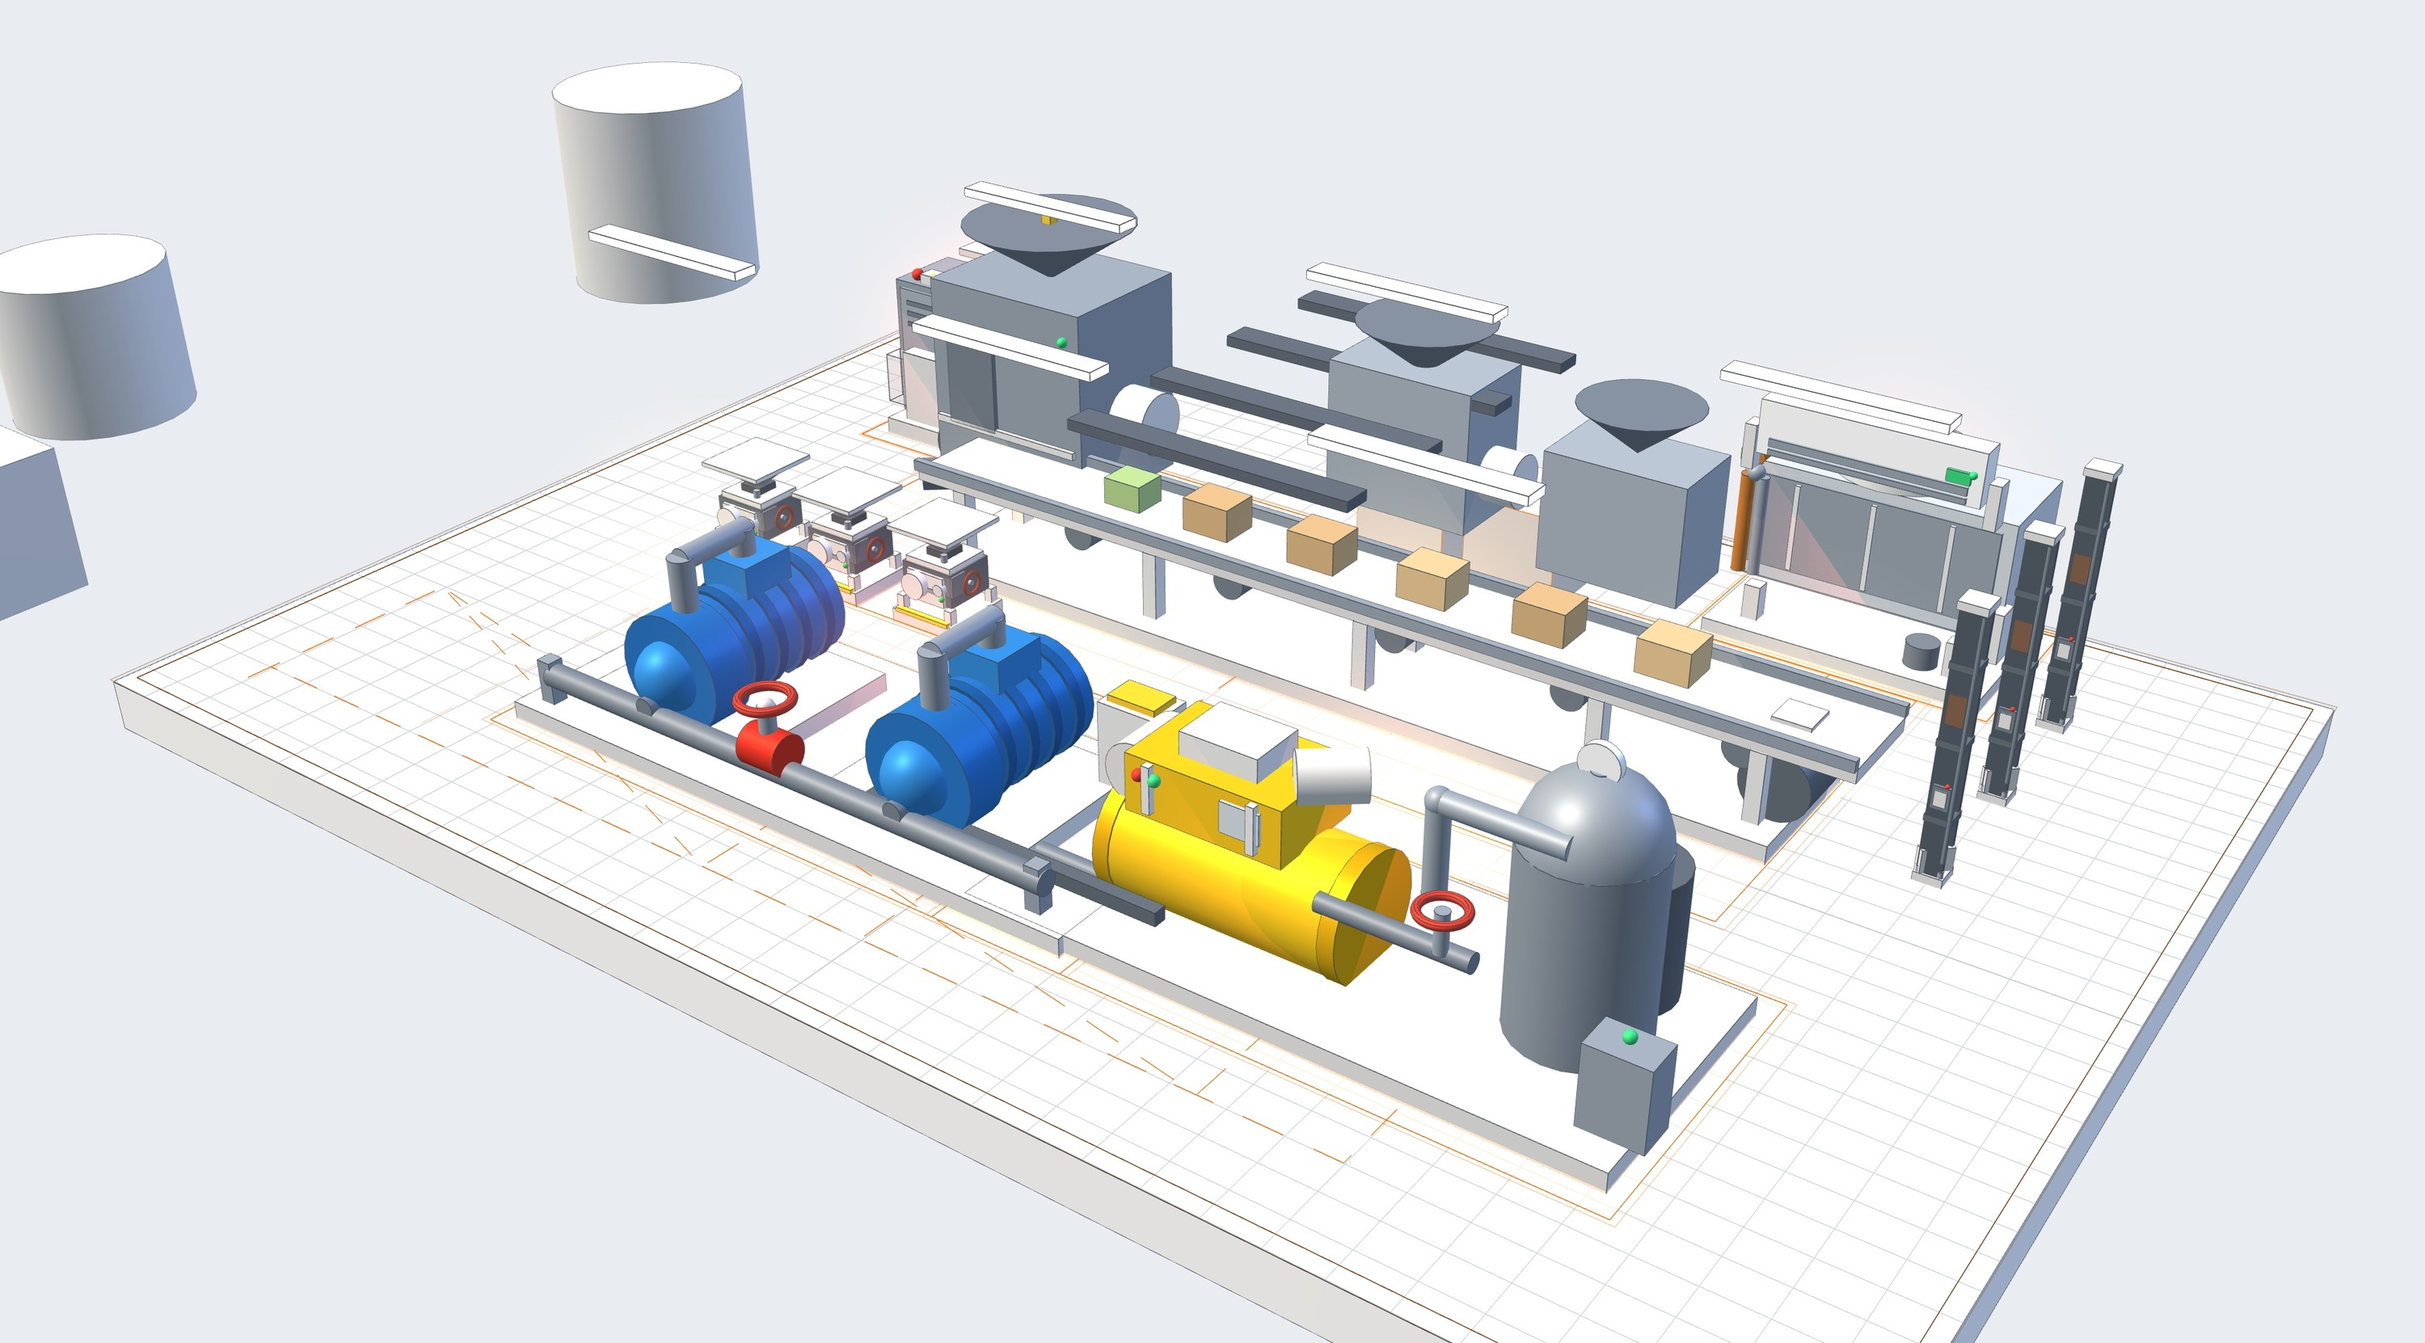
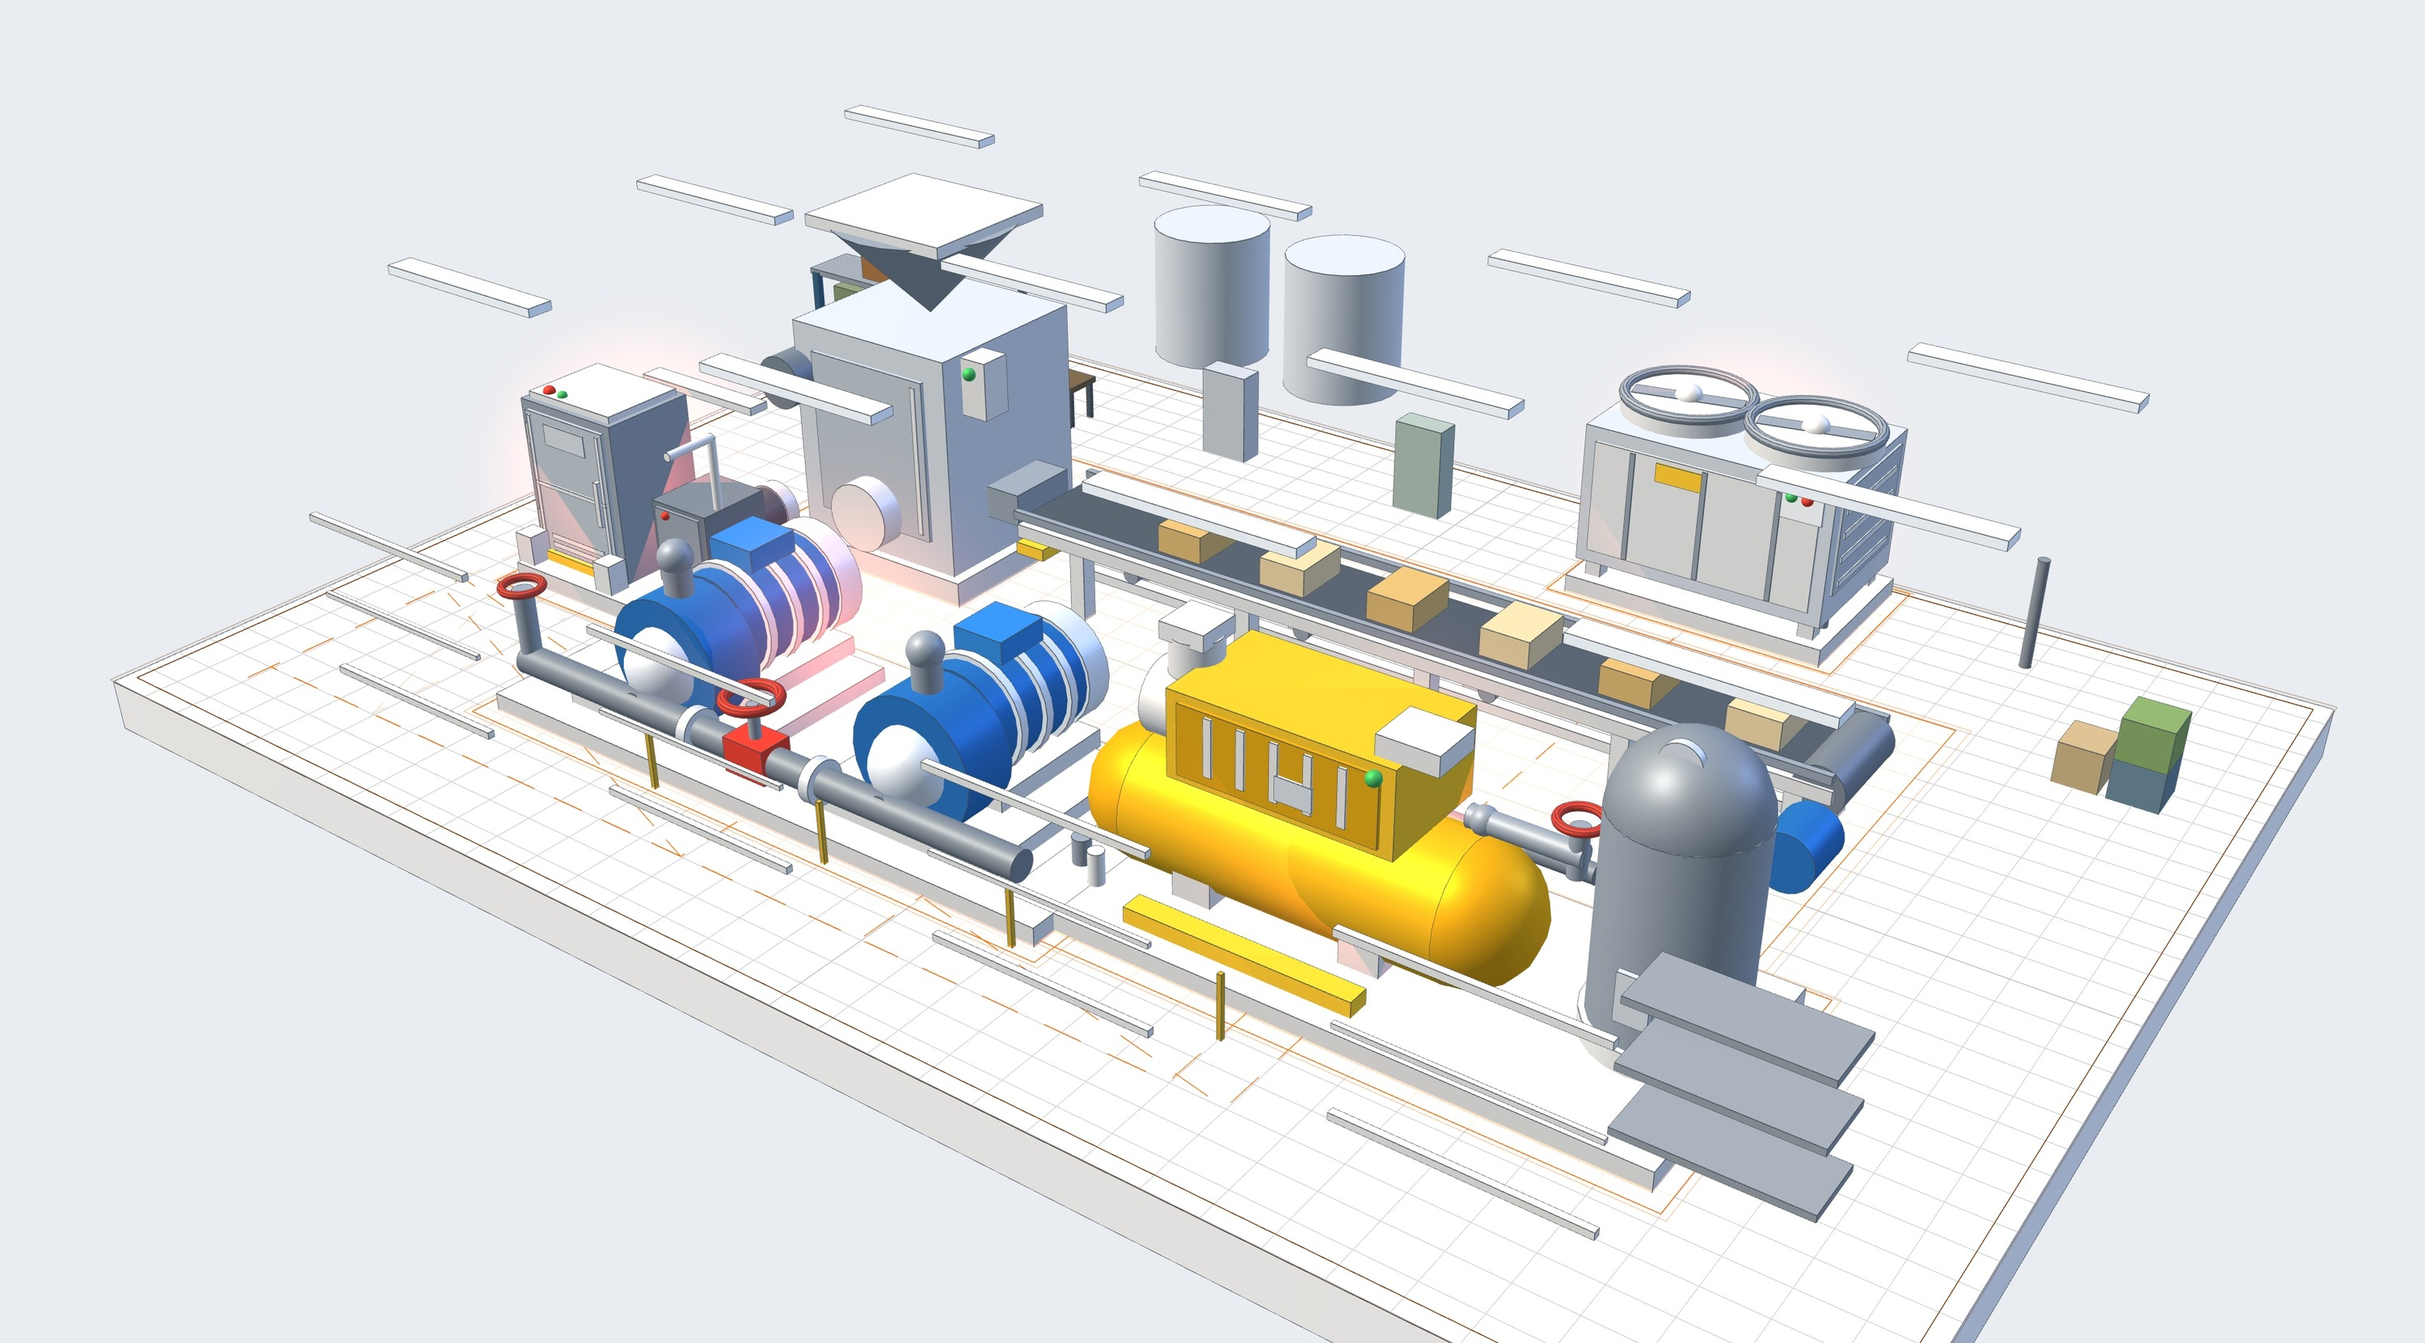
Full-AI hall live in the pipeline (Muse Wonder designs the whole 3D scene, open frame, no roof/walls/columns/trees, decluttered in code); new hero demo and README 3D images; README states everything is designed by Muse models

diff --git a/wattloop/parts.py b/wattloop/parts.py
@@ -187,11 +187,11 @@ def generate_props(budget: meta.Budget, spec: dict, image: bytes | None, descrip
 
 HALL_SYSTEM = ("You are the 3D Modeller agent of an industrial energy-audit pipeline. The machines of ONE facility are modelled elsewhere. You model EVERYTHING ELSE in the hall so that the scene looks like the photo: "
                "ceiling light fixtures (each one a thin bright box), steel columns and beams, open roof trusses (bars only), window frames (thin bars only), ducts and pipe runs, cable trays, racks and shelving with pallets, tanks and silos, furnaces and ovens, "
-               "workbenches, stacked products, guard rails, walkways, control cabinets, and a few background buildings or tanks outside the hall. Return ONE JSON object and nothing else: "
+               "workbenches, stacked products, guard rails, walkways, control cabinets, and nothing else outside the hall. Return ONE JSON object and nothing else: "
                '{"hall":[{"shape":"box|cylinder|cone|sphere|torus","pos":[x,y,z],"size":[...],"rot":[rx,ry,rz],"color":"#rrggbb","opacity":0.3-1}]}\n'
-               "FRAME (metres): the hall floor is x from -16 to 16 and z from -10 to 10 (z positive toward the viewer, y up, 0 = floor); pos is the CENTRE of each part; you may also place things outside the floor up to x +-32 and z +-18 for the background. "
+               "FRAME (metres): the hall floor is x from -16 to 16 and z from -10 to 10 (z positive toward the viewer, y up, 0 = floor); pos is the CENTRE of each part; everything must stay inside the floor. "
                "The machines stand in these slots, so keep them free: pumps near x -8 z 6; compressor near x 7 z 5.4; production line along x -9 to 9 at z -3.6; AC unit near x 10 z -9.3; standby cabinet near x -13.5 z -3.6 (the layout may move them; stay clear of the middle band). "
-               "NO OVERHEAD STRUCTURE (very important): do not model anything above height 6 except ceiling light fixtures (thin bright boxes hanging at y 6.5 to 7.5). No roof, no roof beams, no trusses, no overhead bars, no ceiling grid. Columns stop at height 6. The hall is OPEN to the sky. "
+               "NOTHING OUTSIDE THE FACTORY: no trees, plants, bushes, cars, people, roads, fences, background buildings or tanks outside the floor area; everything you model stands INSIDE the floor (x -16 to 16, z -10 to 10). Do not model windows or window frames either.  do not model anything above height 6 except ceiling light fixtures (thin bright boxes hanging at y 6.5 to 7.5). No roof, no roof beams, no trusses, no overhead bars, no ceiling grid. Columns stop at height 6. The hall is OPEN to the sky. "
                "OPEN FRAME RULE: the hall floor area is an open space with standing structure only. NEVER model a roof, a ceiling, a floor slab or any wall or solid panel: no box wider than 6 and deeper than 6 that is thin, no big flat sheet of any kind. Build structure only from thin bars (columns up to height 6, rails, braces, low ducts and pipes, each under 0.6 thick) so that the machines are always fully visible from above and from the side. Windows are drawn as thin frames, never as panes. "
                "Use 70 to 130 parts, biggest and most visible structures first. SIZES: box [width,height,depth]; cylinder [radius,height]; cone [radius,height]; sphere [radius]; torus [ring radius, tube radius]. rot in degrees (a cylinder stands upright; rot [0,0,90] lays it along x; rot [90,0,0] along z). "
                "Nothing floats: every part touches the floor or another part (columns stop at height 6, lights hang on thin rods at 6.5 to 7.5). Match the photo: the number and spacing of columns and lights, the colours, the materials (stainless light grey #c3cbd4, painted steel as seen, brick red #8a3b2a), glass with opacity 0.35 to 0.6. "
@@ -246,6 +246,37 @@ def _open_top(p: dict) -> dict | None:
     return p
 
 
+def _extent(p: dict) -> tuple[float, float]:
+    """(height, longest horizontal size) of a part."""
+    if p["shape"] == "box":
+        return p["size"][1], max(p["size"][0], p["size"][2])
+    if p["shape"] in ("cylinder", "cone"):
+        return (p["size"][1], 2 * p["size"][0]) if not p.get("rot") else (2 * p["size"][0], p["size"][1])
+    return 2 * p["size"][0], 2 * p["size"][0]
+
+
+def _declutter(p: dict) -> dict | None:
+    """Keep the view clear: nothing tall stands between the viewer and the machines (front band z > 3.5), no long overhead rails,
+    nothing outside the floor except low-profile background behind the hall (z < -11), no big blocks or trees at the edges."""
+    x, y, z = p["pos"]
+    h, length = _extent(p)
+    if _is_light(p):
+        return p
+    if abs(x) > 17.5 or z > 11.0:
+        return None
+    if z < -11.0 and h > 8:
+        return None
+    if z > 3.5 and y + h / 2 > 1.4:
+        return None
+    if p["shape"] == "box" and length > 8 and y > 1.5:
+        return None
+    if p["shape"] == "box" and length > 3.5 and h < 0.3 and y < 0.6:
+        return None   # flat strips lying on the floor (leftover window sills and rails) only clutter the view
+    if p["shape"] == "sphere" and p["size"][0] > 0.8:
+        return None
+    return p
+
+
 def generate_hall(budget: meta.Budget, spec: dict, image: bytes | None, description: str, obs: dict | None, boxes: list[dict]) -> tuple[list[dict], dict]:
     """Full-AI scene: Muse Wonder designs lights, columns, ducts, racks, tanks, furnaces and the background too (validated parts, no templates)."""
     usd = 0.0
@@ -258,7 +289,7 @@ def generate_hall(budget: meta.Budget, spec: dict, image: bytes | None, descript
             continue
         usd += r["usd"]
         plist = (r["json"] or {}).get("hall")
-        got = [q for q in (_open_top(p) for p in _clean(plist, 32.0, 18.0, 10.0, 150, allow_anim=False, limit=150) if not _is_panel(p)) if q]
+        got = [r for r in (_declutter(q) for q in (_open_top(p) for p in _clean(plist, 32.0, 18.0, 10.0, 150, allow_anim=False, limit=150) if not _is_panel(p)) if q) if r]
         if len(got) >= 20:
             return got, {"usd": usd, "model": r["model"]}
     return [], {"usd": usd, "model": None}

diff --git a/wattloop/pipeline.py b/wattloop/pipeline.py
@@ -461,27 +461,42 @@ def scene_designer(run: Run, spec: dict, obs: dict, boxes: list[dict]):
             raise
         except Exception:  # noqa: BLE001  (the template shapes stay)
             return {}, {"usd": 0.0}
-    with ThreadPoolExecutor(1) as ex:
-        fut = ex.submit(shapes)
+    def hall():
+        """The rest of the scene (lights, racks, tanks, furnaces, background): designed by the model too, open frame only (no roof, walls or columns)."""
+        if not meta.available() or meta.env("PARTS_3D", "1") != "1":
+            return [], {"usd": 0.0}
+        try:
+            res = parts.generate_hall(run.budget, spec, run.image, run.case["description"], obs, boxes)
+            run.calls += 1 if res[1].get("usd") else 0
+            return res
+        except meta.BudgetExceeded:
+            raise
+        except Exception:  # noqa: BLE001
+            return [], {"usd": 0.0}
+    with ThreadPoolExecutor(2) as ex:
+        fut, fut_hall = ex.submit(shapes), ex.submit(hall)
         out, info = _layout_designer(run, spec, obs, boxes)
-        props_got, props_info = {}, {"usd": 0.0}
-        if meta.available() and meta.env("PARTS_3D", "1") == "1":
-            try:
-                props_got, props_info = parts.generate_props(run.budget, spec, run.image, run.case["description"], obs, boxes)   # big furnaces, ovens, silos: after the layout knows where they stand
-                run.calls += 1 if props_info.get("usd") else 0
-            except meta.BudgetExceeded:
-                raise
-            except Exception:  # noqa: BLE001
-                props_got = {}
         got, pinfo = fut.result()
+        hall_parts, hinfo = fut_hall.result()
+    props_got, props_info = {}, {"usd": 0.0}
+    if hall_parts:
+        spec["hall"] = hall_parts
+    elif meta.available() and meta.env("PARTS_3D", "1") == "1":   # the hall call failed: the big props are designed instead (older path)
+        try:
+            props_got, props_info = parts.generate_props(run.budget, spec, run.image, run.case["description"], obs, boxes)
+            run.calls += 1 if props_info.get("usd") else 0
+        except meta.BudgetExceeded:
+            raise
+        except Exception:  # noqa: BLE001
+            props_got = {}
     got = {**got, **props_got}
-    pinfo = {"usd": pinfo.get("usd", 0.0) + props_info.get("usd", 0.0), "model": pinfo.get("model") or props_info.get("model")}
+    pinfo = {"usd": pinfo.get("usd", 0.0) + props_info.get("usd", 0.0) + hinfo.get("usd", 0.0), "model": pinfo.get("model") or hinfo.get("model") or props_info.get("model")}
     n = parts.apply_parts(spec, got)
     info = {**info, "usd": info.get("usd", 0.0) + pinfo.get("usd", 0.0), "calls": info.get("calls", 0) + (1 if pinfo.get("usd") else 0)}
     out["shapes_by_model"] = n
     if n:
         info["model"] = pinfo.get("model") or info.get("model")   # the 3D shapes are the main work of this step
-        info["note"] = f"{n} machine shapes designed by {(pinfo.get('model') or 'the model').replace('muse-', 'Muse ').replace('-1.0', '')}"
+        info["note"] = f"{n} machines" + (f" and a {len(spec['hall'])}-part hall" if spec.get("hall") else "") + f" designed by {(pinfo.get('model') or 'the model').replace('muse-', 'Muse ').replace('-1.0', '')}"
     return out, info
 
 

diff --git a/tests/test_parts.py b/tests/test_parts.py
@@ -68,3 +68,14 @@ def test_open_top_removes_overhead_structure_keeps_lights_and_trims_columns():
     assert parts._open_top(light) == light and parts._open_top(beam) is None and parts._open_top(truss) is None
     c = parts._open_top(column)
     assert c and c["pos"][1] + c["size"][1] / 2 <= parts.HALL_TOP + 0.01
+
+
+def test_declutter_keeps_the_view_clear():
+    rail = {"shape": "box", "pos": [0, 4, 0], "size": [20, 0.2, 0.2], "color": "#444444"}
+    window = {"shape": "box", "pos": [0, 2, 6], "size": [0.2, 3, 3], "color": "#cccccc"}
+    low = {"shape": "box", "pos": [0, 0.4, 6], "size": [1, 0.8, 1], "color": "#cccccc"}
+    outside = {"shape": "box", "pos": [24, 2, 0], "size": [5, 4, 5], "color": "#cccccc"}
+    tree = {"shape": "sphere", "pos": [-17, 2, 5], "size": [1.4], "color": "#2f8f3a"}
+    rack = {"shape": "box", "pos": [10, 1, -6], "size": [2, 2, 1], "color": "#cccccc"}
+    assert all(parts._declutter(p) is None for p in (rail, window, outside, tree))
+    assert parts._declutter(low) == low and parts._declutter(rack) == rack

diff --git a/tools/make_hero.py b/tools/make_hero.py
@@ -13,7 +13,7 @@ from wattloop import demo, pipeline, scene  # noqa: E402
 ROOT = Path(__file__).resolve().parent.parent
 if sys.argv[1] == "--save":
     spec = json.loads((ROOT / f"static/dev/hero_{sys.argv[2]}.json").read_text())
-    out = {"components": {c["id"]: c["design"] for c in spec["components"] if c.get("design")}, "extras": spec.get("extras", [])}
+    out = {"components": {c["id"]: c["design"] for c in spec["components"] if c.get("design")}, "extras": spec.get("extras", []), "hall": spec.get("hall", [])}
     (ROOT / "wattloop/data/demo_design.json").write_text(json.dumps(out))
     print("saved", {k: len(v.get("parts", [])) for k, v in out["components"].items()}, len(out["extras"]), "extras", sum(1 for x in out["extras"] if x.get("parts")), "with parts")
     sys.exit()

diff --git a/server.py b/server.py
@@ -243,6 +243,8 @@ def _demo_design(spec: dict) -> None:
         if c["id"] in d.get("components", {}):
             c["design"] = d["components"][c["id"]]
     spec["extras"] = d.get("extras", [])
+    if d.get("hall"):
+        spec["hall"] = d["hall"]
 
 
 def _random_demo(item: dict) -> dict:

diff --git a/README.md b/README.md
@@ -63,7 +63,7 @@ A synthetic test (200 random plants where the true saving is known, **not real p
 
 ## See it work
 
-<p align="center"><img src="assets/screens/hero-3d.jpg" alt="The 3D twin of the demo food plant: blue pump skid, yellow compressor with its receiver tank, conveyor line with mixers and an oven" width="100%"><br><sub><b>The 3D twin, designed by Muse Wonder.</b> Every machine is modelled from simple parts it writes; code checks and draws them.</sub></p>
+<p align="center"><img src="assets/screens/hero-3d.jpg" alt="The 3D twin of the demo food plant: blue pump skid, yellow compressor with its receiver tank, conveyor line with mixers and an oven" width="100%"><br><sub><b>Everything in the 3D twin is designed by Muse models.</b> Muse Wonder designs every machine, structure and prop as simple parts and Muse Spark lays them out; code only checks the parts, draws them and lays the floor.</sub></p>
 
 <p align="center"><img src="assets/screens/focus.jpg" alt="Fly-in on the pump skid with its live power, waste warning and speed gauge" width="100%"><br><sub><b>Click any machine.</b> The view flies in and shows the live power, the waste (a throttled valve on the process pumps here) and where the parameter sits against its safe range. The photo on the left shows what Muse Spark named and SAM 3.1 outlined. A real run: the shapes were designed by Muse Wonder.</sub></p>
 
@@ -108,7 +108,7 @@ flowchart TD
 | Segmenter | SAM 3.1 | Outline each machine in the photo | Falls back to no overlay |
 | Twin Engineer | Muse Spark | Write the facility as structured JSON | Clamped to the twin's schema in code |
 | Scene Designer | Muse Spark (sees the photo) | Place machines, scale them, add props from the photo | Bounds, spacing and primitive limits enforced; falls back to a layout from the SAM boxes |
-| 3D Modeller | Muse Wonder (sees the photo; Muse Spark as fallback) | Designs each machine's shape as 14-30 simple parts (boxes, cylinders, cones, spheres, tori) with positions, sizes and colours | Parts are data, never code: shape, size, position inside the machine's floor slot, colour and part count are validated; falls back to a built-in shape |
+| 3D Modeller | Muse Wonder (sees the photo; Muse Spark as fallback) | Designs every machine and the rest of the hall (racks, tanks, furnaces, lights) as simple parts (boxes, cylinders, cones, spheres, tori) with positions, sizes and colours, as an open frame with no roof, walls or columns | Parts are data, never code: shape, size, position inside the machine's floor slot, colour and part count are validated; falls back to a built-in shape |
 | Calibration loop | Code + Muse Spark | Match the twin to the real bill (under 5% error) | Hard cap of 5 iterations; deterministic fallback |
 | Waste Hunter | Muse Spark | Propose fixes from a catalog, aggressively first | Every proposal is simulated, never trusted |
 | **Fix Verifier** | **Code** | Apply each fix to the twin, reject impractical ones (3% leak floor, 26 C limit, 30% minimum drive speed, solar size cap) | Rejections go back to the hunter with the reason |
